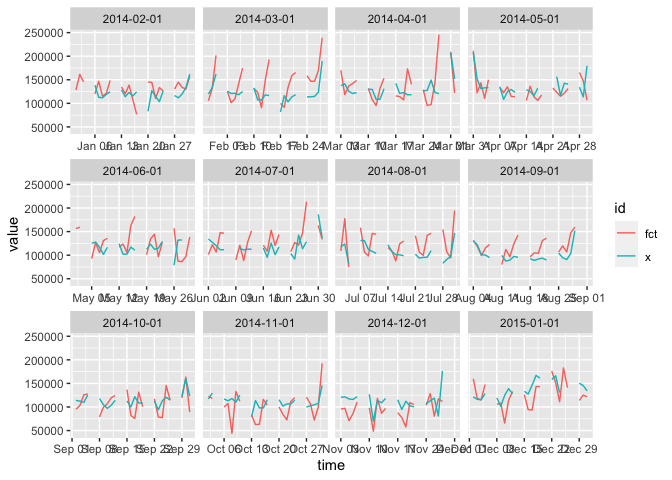
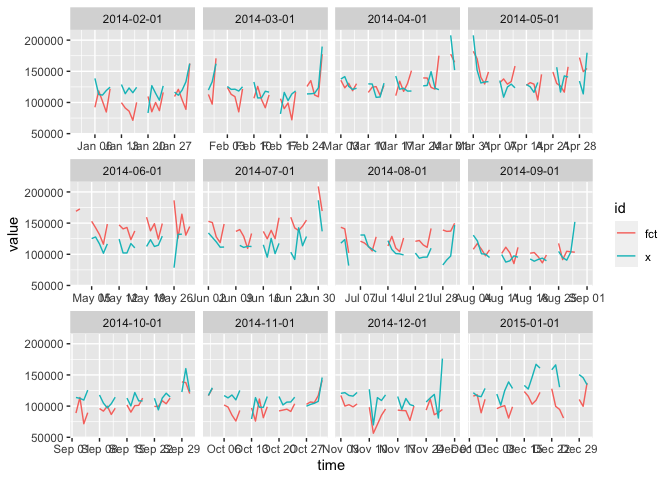
dsa, loess fixes

diff --git a/topics/dailyadj/script/oos_evals.md b/topics/dailyadj/script/oos_evals.md
@@ -1,7 +1,7 @@
 oos\_evals.R
 ================
 christoph
-2020-04-19
+2020-04-20
 
 # 12 Month OOS
 
@@ -51,37 +51,39 @@ plot_oos_evals(z)
 ## seas\_loess
 
 ``` r
-z <- oos_evals(x, seas_loess)
+z <-  oos_evals(x, seas_loess)
 summary_oos_evals(z)
 ```
 
     ## # A tibble: 13 x 4
     ##    end          mrse    mae  mpce
     ##    <chr>       <dbl>  <dbl> <dbl>
-    ##  1 2014-02-01 23497. 17316. 0.155
-    ##  2 2014-03-01 34553. 29282. 0.243
-    ##  3 2014-04-01 36739. 26572. 0.209
-    ##  4 2014-05-01 24734. 19074. 0.137
-    ##  5 2014-06-01 35268. 27979. 0.248
-    ##  6 2014-07-01 29806. 23910. 0.203
-    ##  7 2014-08-01 31836. 25742. 0.244
-    ##  8 2014-09-01 23859. 18803. 0.198
-    ##  9 2014-10-01 20969. 16672. 0.147
-    ## 10 2014-11-01 27268. 20808. 0.185
-    ## 11 2014-12-01 30307. 25742. 0.226
-    ## 12 2015-01-01 26283. 21192. 0.155
-    ## 13 Mean       28760. 22758. 0.196
+    ##  1 2014-02-01 26957. 22703. 0.187
+    ##  2 2014-03-01 19191. 15135. 0.129
+    ##  3 2014-04-01 19452. 14523. 0.110
+    ##  4 2014-05-01 21304. 17840. 0.132
+    ##  5 2014-06-01 36781. 29669. 0.272
+    ##  6 2014-07-01 28052. 24513. 0.216
+    ##  7 2014-08-01 24518. 20087. 0.203
+    ##  8 2014-09-01 19217. 13871. 0.139
+    ##  9 2014-10-01 17395. 14090. 0.121
+    ## 10 2014-11-01 18253. 14620. 0.133
+    ## 11 2014-12-01 26492. 19786. 0.165
+    ## 12 2015-01-01 34370. 28522. 0.200
+    ## 13 Mean       24332. 19613. 0.167
 
 ``` r
 plot_oos_evals(z)
 ```
+
+    ## Warning: Removed 2 row(s) containing missing values (geom_path).
 
 ![](oos_evals_files/figure-gfm/unnamed-chunk-3-1.png)<!-- -->
 
 ## seas\_dsa
 
 ``` r
-z <- oos_evals(x, seas_dsa)
+z <-  oos_evals(x, seas_dsa)
 ```
 
     ##   |                                                                              |                                                                      |   0%  |                                                                              |===                                                                   |   5%  |                                                                              |=======                                                               |  10%  |                                                                              |====================                                                  |  29%  |                                                                              |===========================                                           |  38%  |                                                                              |===============================================                       |  67%  |                                                                              |==================================================                    |  71%  |                                                                              |=====================================================                 |  76%  |                                                                              |===============================================================       |  90%  |                                                                              |======================================================================| 100%
@@ -109,23 +111,25 @@ summary_oos_evals(z)
     ## # A tibble: 13 x 4
     ##    end          mrse    mae   mpce
     ##    <chr>       <dbl>  <dbl>  <dbl>
-    ##  1 2014-02-01 13670.  9883. 0.0868
-    ##  2 2014-03-01 14286. 10330. 0.0924
-    ##  3 2014-04-01 12232. 10710. 0.0864
-    ##  4 2014-05-01 18845. 11112. 0.0723
+    ##  1 2014-02-01 14697. 10758. 0.0910
+    ##  2 2014-03-01 16487. 11706. 0.0980
+    ##  3 2014-04-01 17319. 12986. 0.0952
+    ##  4 2014-05-01 20440. 13169. 0.0871
     ##  5 2014-06-01 19665. 13774. 0.124 
-    ##  6 2014-07-01 12332. 10068. 0.0902
+    ##  6 2014-07-01 16107. 12000. 0.0982
     ##  7 2014-08-01 18250. 13381. 0.129 
-    ##  8 2014-09-01 11299.  6380. 0.0552
+    ##  8 2014-09-01 12740.  7469. 0.0695
     ##  9 2014-10-01 12667. 10092. 0.0861
     ## 10 2014-11-01 13043. 10417. 0.0959
-    ## 11 2014-12-01 18348. 13871. 0.129 
+    ## 11 2014-12-01 18228. 13954. 0.129 
     ## 12 2015-01-01 17639. 14222. 0.0995
-    ## 13 Mean       15190. 11187. 0.0955
+    ## 13 Mean       16440. 11994. 0.100
 
 ``` r
 plot_oos_evals(z)
 ```
+
+    ## Warning: Removed 4 row(s) containing missing values (geom_path).
 
 ![](oos_evals_files/figure-gfm/unnamed-chunk-4-1.png)<!-- -->
 
